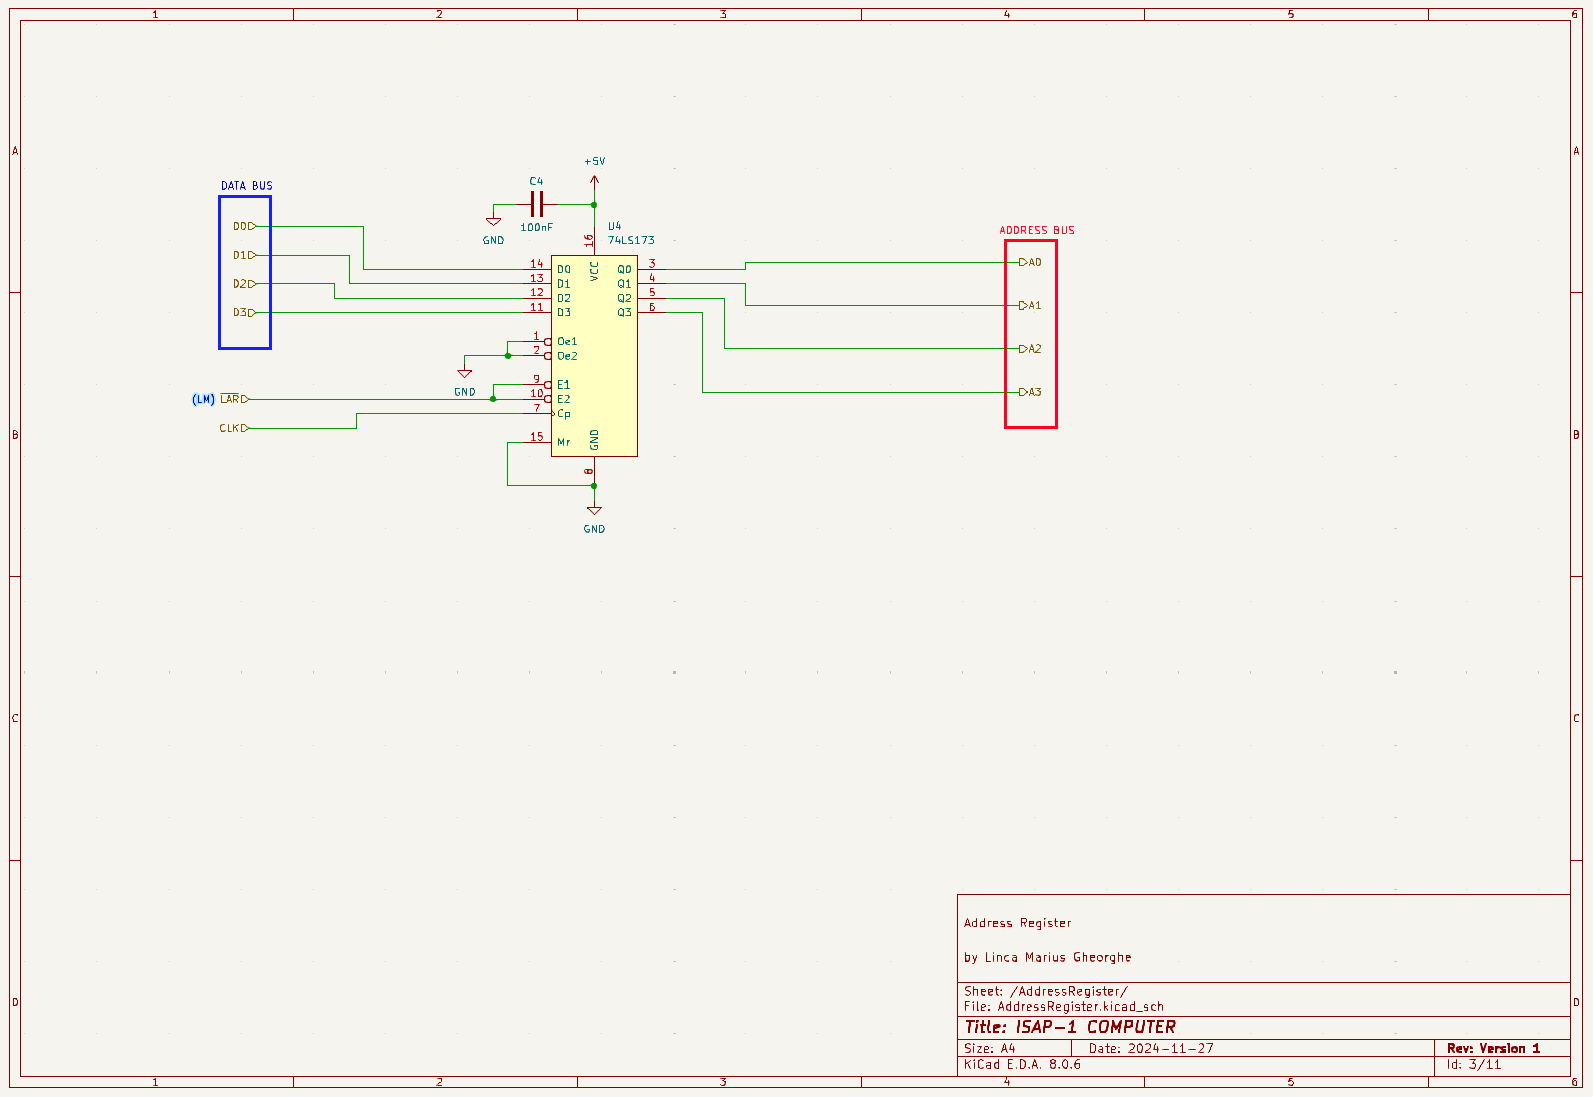
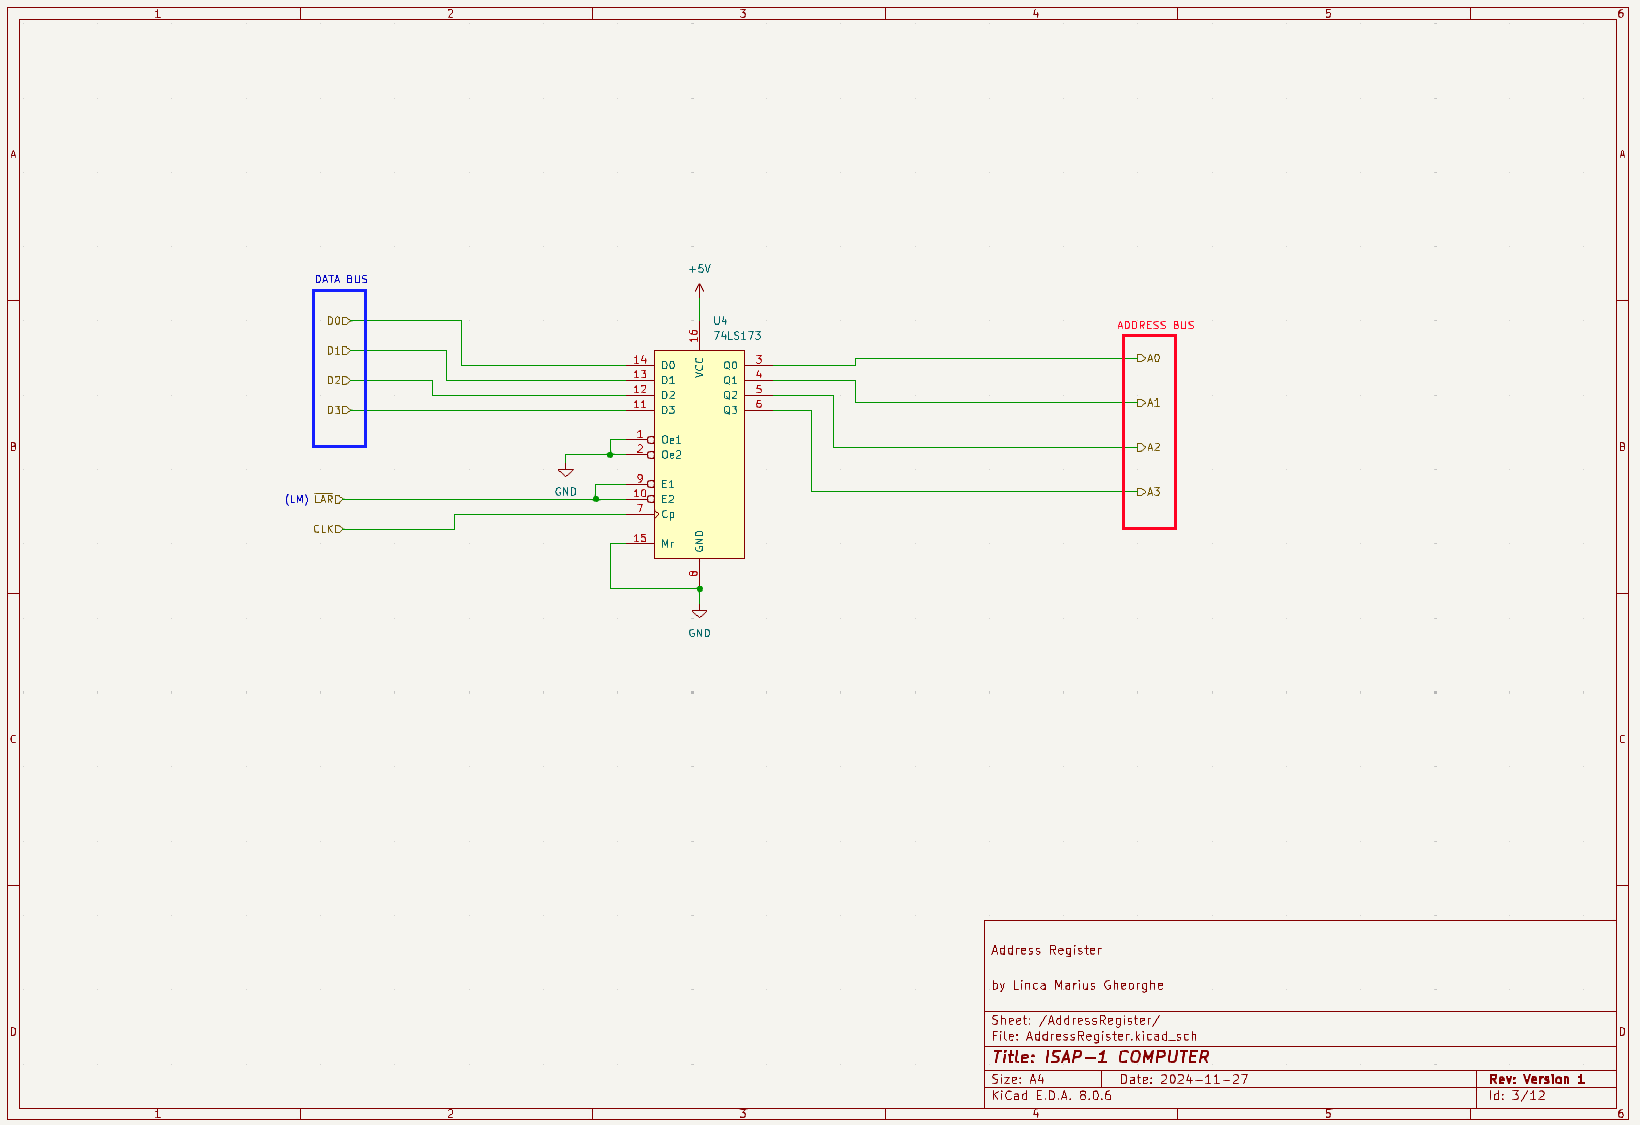
modified:   Pictures/Figure4.png modified:   README.md

diff --git a/README.md b/README.md
@@ -46,8 +46,6 @@ The output from the circuit to the bus is done using four three-state drivers, u
 
 The Schematic Diagram does has no changes from the original one.
 
-I added decoupling capacitors with a value of 100nF for each integrated circuit used
-
 ![ Figure 3 ](/Pictures/Figure3.png)
 
 ### Address Register Schematic
@@ -62,8 +60,6 @@ I modified the pin connections to the bus according to the catalog data for the 
 Because the correspondence between inputs and outputs is maintained in both implementations, the operation of the computer is not influenced.
 
 The Schematic Diagram does has no changes from the original one.
-
-I added decoupling capacitors with a value of 100nF for the integrated circuit used
 
 ![ Figure 4 ](/Pictures/Figure4.png)
 
